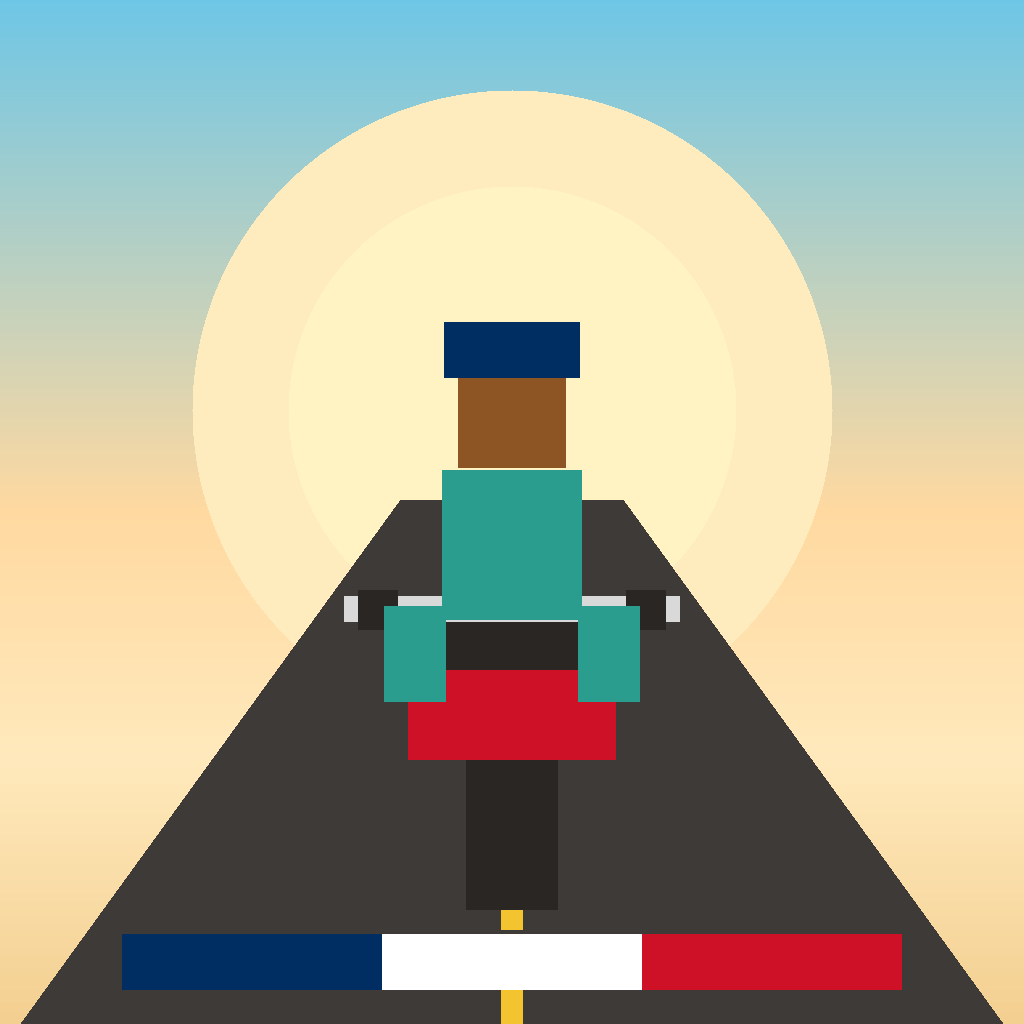
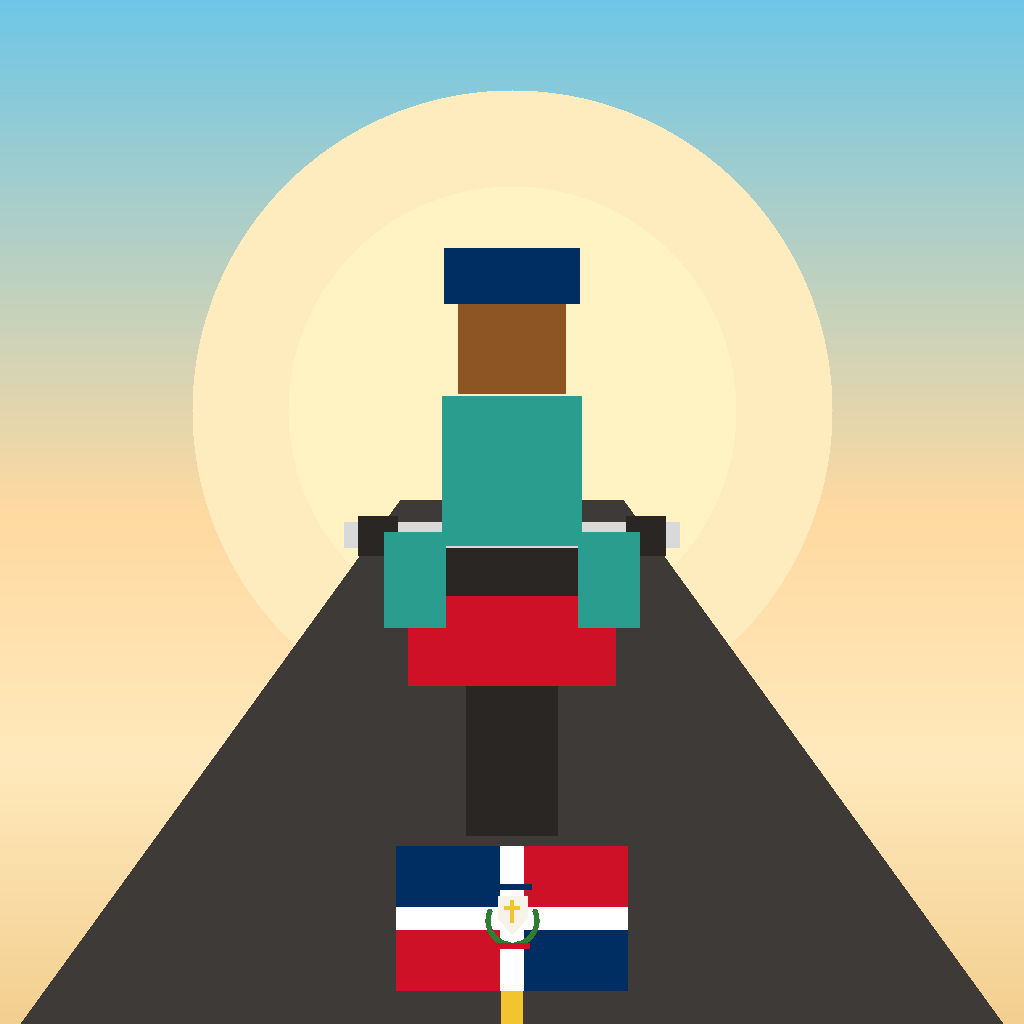
Diablo becomes Diache, and la bandera gets el escudo
Copy
- Every user-facing "¡Diablo!" is now "¡Diache!", the Dominican euphemism, so
  the game never says diablo. Two places: the combo ladder at 5 and the middle
  game-over title. Verified in the running game: the ladder fired ¡Diache! at
  combo 5 and the title rotation showed it. CLAUDE.md's copy spec updated to
  match so the canon and the code agree.

La bandera
- The logo, the share card and the app icon all drew the flag as three
  vertical bands, which reads as the French flag. All three now draw the real
  thing: white cross, blue at the upper hoist and lower fly, red at the upper
  fly and lower hoist, and el escudo in the middle.
- New src/flag.ts owns the canvas version, ui.ts owns the SVG twin for the
  DOM, and tools/make-icons.mjs draws it with new poly and arc primitives.
  One design, four surfaces.
- El escudo is simplified to what survives small: a laurel and palm wreath
  around a cream shield with the gold cross, the blue ribbon above and the red
  below. The real one (Bible, spears, lettering) turns to mush under ~200 px.
  Checked at 400, 150, 76, 44 and 24 px; it still reads as an emblem at 44.
- The roadside flags in the world already had the cross and quadrants right,
  so they just gained the escudo, and their quad now uses the flag's real 8:5
  ratio instead of 1.53.
- Share card layout: the flag is sized to the band between the wordmark and
  the ¡NUEVO RÉCORD! badge, and the badge moved down 15 px so it no longer
[…]

diff --git a/src/ui.ts b/src/ui.ts
@@ -4,6 +4,7 @@
 
 import { VEHICLES, type VehicleId } from './config';
 import { LADDER_STEPS, type RunResult } from './score';
+import { drawDominicanFlag } from './flag';
 
 type Lang = 'es' | 'en';
 const LANG_KEY = 'ecc.v1.lang';
@@ -35,7 +36,7 @@ const STRINGS = {
     shareAsk: '¿Me lo puedes ganar?',
     ariaSound: 'Sonido',
     ariaPause: 'Pausa',
-    gameOverTitles: ['¡Te dieron, loco!', '¡Diablo!', '¡Eso tuvo feo!'],
+    gameOverTitles: ['¡Te dieron, loco!', '¡Diache!', '¡Eso tuvo feo!'],
     cvPill: '¡EN CONTRA VÍA! ×2',
     trickPillBike: '¡CABALLITO! ×1.5',
     trickPillCar: '¡DERRAPE! ×1.5',
@@ -45,7 +46,7 @@ const STRINGS = {
     obelisco: '¡El Obelisco!',
     multUp: (n: number) => `¡MULTIPLICADOR ×${n}!`,
     nearMiss: ['¡Cerquita!', '¡Por un pelito!'],
-    ladder: ['¡Eso!', '¡Duro!', '¡Diablo!', "¡Tú ta' loco!", "¡ETE E' UN LOCO!", '¡LEYENDA DEL MALECÓN!'],
+    ladder: ['¡Eso!', '¡Duro!', '¡Diache!', "¡Tú ta' loco!", "¡ETE E' UN LOCO!", '¡LEYENDA DEL MALECÓN!'],
   },
   en: {
     subtitle: "Let's go, we're late!",
@@ -89,6 +90,29 @@ const VEHICLE_IDS: VehicleId[] = ['pasola', 'motor', 'civic'];
 
 const BANANA_SVG =
   '<svg viewBox="0 0 24 24" width="17" height="17" aria-hidden="true"><path d="M4 7 C5 15 13 20 20 15 C15 22 4 19 2 9 Z" fill="#f4c430" stroke="#7cb342" stroke-width="1.4"/></svg>';
+
+// La bandera, properly: the white cross quarters it, blue at the upper hoist
+// and lower fly, red at the upper fly and lower hoist, and el escudo in the
+// middle. Without the escudo it just reads as the French flag, which is the
+// one thing a Dominican flag must never do.
+const FLAG_SVG = `<svg class="flag-svg" viewBox="0 0 80 50" role="img" aria-label="Bandera dominicana">
+  <rect width="80" height="50" fill="#ffffff"/>
+  <rect x="0" y="0" width="36" height="21" fill="#002d62"/>
+  <rect x="44" y="0" width="36" height="21" fill="#ce1126"/>
+  <rect x="0" y="29" width="36" height="21" fill="#ce1126"/>
+  <rect x="44" y="29" width="36" height="21" fill="#002d62"/>
+  <g class="escudo">
+    <path d="M39.4 33.2c-5-1.1-7.6-5.2-7.2-10.6" fill="none" stroke="#2f7d32" stroke-width="1.9" stroke-linecap="round"/>
+    <path d="M40.6 33.2c5-1.1 7.6-5.2 7.2-10.6" fill="none" stroke="#2f7d32" stroke-width="1.9" stroke-linecap="round"/>
+    <path d="M33.6 25.4l-1.9 1.5M33 21.9l-2.1.9M33.4 18.6l-1.9-.2" stroke="#2f7d32" stroke-width="1.2" stroke-linecap="round"/>
+    <path d="M46.4 25.4l1.9 1.5M47 21.9l2.1.9M46.6 18.6l1.9-.2" stroke="#2f7d32" stroke-width="1.2" stroke-linecap="round"/>
+    <rect x="33.2" y="13.1" width="13.6" height="2.2" rx="1.1" fill="#002d62"/>
+    <rect x="33.8" y="33.4" width="12.4" height="2.2" rx="1.1" fill="#ce1126"/>
+    <path d="M35 16.9h10v8.1L40 30.4 35 25z" fill="#f7f3e8" stroke="#002d62" stroke-width="0.8"/>
+    <rect x="39.3" y="18.5" width="1.4" height="8" fill="#f4c430"/>
+    <rect x="37.1" y="20.8" width="5.8" height="1.4" fill="#f4c430"/>
+  </g>
+</svg>`;
 
 export interface UICallbacks {
   onStart(): void;
@@ -223,7 +247,7 @@ export class UI {
           <span class="logo-el">EL</span>
           <span class="logo-line">CORRE</span>
           <span class="logo-line">CORRE</span>
-          <div class="flagbar"><i class="fb-blue"></i><i class="fb-white"></i><i class="fb-red"></i></div>
+          <div class="flagbar">${FLAG_SVG}</div>
         </div>
         <div id="subtitle" class="subtitle"></div>
         <div id="vrow" class="vrow">${statBars()}</div>
@@ -725,17 +749,20 @@ export class UI {
     stroked('CORRE', 0, 344, 130, '#ffffff', '#002d62', 16);
     g.restore();
 
-    const barW = 420;
-    const seg = barW / 3;
-    const colors = ['#002d62', '#ffffff', '#ce1126'];
-    colors.forEach((col, i) => {
-      g.fillStyle = col;
-      g.fillRect(540 - barW / 2 + i * seg, 420, seg, 16);
-    });
+    // La bandera under the logo, escudo and all. The three-band version this
+    // replaced read as the French flag on a group-chat thumbnail. Sized to the
+    // band between the wordmark and the ¡NUEVO RÉCORD! badge.
+    const flagW = 120;
+    g.save();
+    g.shadowColor = 'rgba(0,45,98,0.35)';
+    g.shadowBlur = 0;
+    g.shadowOffsetY = 4;
+    drawDominicanFlag(g, 540 - flagW / 2, 396, flagW);
+    g.restore();
 
     if (r.isNewRecord) {
       g.save();
-      g.translate(540, 505);
+      g.translate(540, 520); // clears the flag above it
       g.rotate(-0.04);
       g.fillStyle = '#ce1126';
       g.beginPath();

diff --git a/src/flag.ts b/src/flag.ts
@@ -1,0 +1,89 @@
+// flag.ts: la bandera dominicana, drawn once and reused everywhere a canvas
+// needs it (the share card, the roadside flags in the world atlas).
+//
+// The whole point of this module is that the flag must never read as the
+// French one. That means all four things: the white cross, blue at the upper
+// hoist and lower fly, red at the upper fly and lower hoist, and el escudo in
+// the middle. The escudo is simplified to what survives at small sizes, a
+// wreath around a shield with the gold cross, the blue ribbon above and the
+// red below, because the real one (Bible, spears, lettering) turns to mush
+// below about 200 px.
+//
+// Authored in an 80 x 50 space, the flag's real 8:5 ratio, and scaled by
+// width. The SVG twin of this lives in ui.ts as FLAG_SVG; keep them in step.
+
+export const FLAG_ASPECT = 80 / 50;
+
+export function drawDominicanFlag(
+  g: CanvasRenderingContext2D,
+  x: number,
+  y: number,
+  w: number,
+): void {
+  const u = w / 80;
+  const S = (n: number): number => n * u;
+  const px = (n: number): number => x + n * u;
+  const py = (n: number): number => y + n * u;
+
+  g.save();
+  g.fillStyle = '#ffffff';
+  g.fillRect(x, y, w, S(50));
+  g.fillStyle = '#002d62';
+  g.fillRect(px(0), py(0), S(36), S(21));
+  g.fillRect(px(44), py(29), S(36), S(21));
+  g.fillStyle = '#ce1126';
+  g.fillRect(px(44), py(0), S(36), S(21));
+  g.fillRect(px(0), py(29), S(36), S(21));
+
+  // laurel on the left, palm on the right, hugging the shield
+  g.lineCap = 'round';
+  g.strokeStyle = '#2f7d32';
+  g.lineWidth = S(1.9);
+  g.beginPath();
+  g.moveTo(px(39.4), py(33.2));
+  g.bezierCurveTo(px(34.4), py(32.1), px(31.8), py(28), px(32.2), py(22.6));
+  g.stroke();
+  g.beginPath();
+  g.moveTo(px(40.6), py(33.2));
+  g.bezierCurveTo(px(45.6), py(32.1), px(48.2), py(28), px(47.8), py(22.6));
+  g.stroke();
+  g.lineWidth = S(1.2);
+  for (const [ax, ay, bx, by] of [
+    [33.6, 25.4, 31.7, 26.9],
+    [33.0, 21.9, 30.9, 22.8],
+    [33.4, 18.6, 31.5, 18.4],
+  ]) {
+    g.beginPath();
+    g.moveTo(px(ax), py(ay));
+    g.lineTo(px(bx), py(by));
+    g.stroke();
+    g.beginPath();
+    g.moveTo(px(80 - ax), py(ay));
+    g.lineTo(px(80 - bx), py(by));
+    g.stroke();
+  }
+
+  // DIOS PATRIA LIBERTAD above, REPUBLICA DOMINICANA below
+  g.fillStyle = '#002d62';
+  g.fillRect(px(33.2), py(13.1), S(13.6), S(2.2));
+  g.fillStyle = '#ce1126';
+  g.fillRect(px(33.8), py(33.4), S(12.4), S(2.2));
+
+  // el escudo
+  g.beginPath();
+  g.moveTo(px(35), py(16.9));
+  g.lineTo(px(45), py(16.9));
+  g.lineTo(px(45), py(25));
+  g.lineTo(px(40), py(30.4));
+  g.lineTo(px(35), py(25));
+  g.closePath();
+  g.fillStyle = '#f7f3e8';
+  g.fill();
+  g.strokeStyle = '#002d62';
+  g.lineWidth = S(0.8);
+  g.stroke();
+  g.fillStyle = '#f4c430';
+  g.fillRect(px(39.3), py(18.5), S(1.4), S(8));
+  g.fillRect(px(37.1), py(20.8), S(5.8), S(1.4));
+  g.restore();
+}

diff --git a/src/world.ts b/src/world.ts
@@ -18,6 +18,7 @@
 import * as THREE from 'three';
 import { mergeGeometries } from 'three/addons/utils/BufferGeometryUtils.js';
 import { CONFIG, PALETTE, ROAD } from './config';
+import { drawDominicanFlag, FLAG_ASPECT } from './flag';
 
 const CHUNK_LEN = 30;
 const CHUNK_COUNT = 7;
@@ -268,20 +269,12 @@ function buildAtlas(): Atlas {
   g.fillText('Av. George Washington', 158, 333);
   put('street', 8, 310, 300, 44);
 
-  // La bandera: white cross, blue and red quadrants
+  // La bandera, escudo and all (see flag.ts for why the escudo is not optional)
   const fx = 340;
   const fy = 8;
-  const fw = 150;
-  const fh = 100;
-  g.fillStyle = hex(PALETTE.flagBlue);
-  g.fillRect(fx, fy, fw / 2, fh / 2);
-  g.fillRect(fx + fw / 2, fy + fh / 2, fw / 2, fh / 2);
-  g.fillStyle = hex(PALETTE.flagRed);
-  g.fillRect(fx + fw / 2, fy, fw / 2, fh / 2);
-  g.fillRect(fx, fy + fh / 2, fw / 2, fh / 2);
-  g.fillStyle = '#ffffff';
-  g.fillRect(fx, fy + fh / 2 - 9, fw, 18);
-  g.fillRect(fx + fw / 2 - 9, fy, 18, fh);
+  const fw = 160;
+  const fh = fw / FLAG_ASPECT;
+  drawDominicanFlag(g, fx, fy, fw);
   put('flag', fx, fy, fw, fh);
 
   g.fillStyle = '#ffffff';
@@ -457,7 +450,7 @@ function makeFlagpole(rects: Record<string, AtlasRect>): THREE.BufferGeometry {
   pole.translate(0, 2.5, 0);
   const ball = uvFill(new THREE.SphereGeometry(0.09, 6, 5), rects.white);
   ball.translate(0, 5.05, 0);
-  const flag = quadUV(1.45, 0.95, rects.flag);
+  const flag = quadUV(1.52, 0.95, rects.flag); // 8:5, la bandera's real ratio
   flag.translate(0.78, 4.45, 0);
   flag.rotateY(0.5);
   return mergeGeometries([pole, ball, flag])!;

diff --git a/src/style.css b/src/style.css
@@ -133,27 +133,15 @@ body {
 
 .flagbar {
   display: flex;
-  width: 76%;
-  height: 10px;
+  justify-content: center;
   margin-top: 12px;
-  border-radius: 6px;
-  overflow: hidden;
 }
 
-.flagbar i {
-  flex: 1;
-}
-
-.fb-blue {
-  background: var(--blue);
-}
-
-.fb-white {
-  background: var(--white);
-}
-
-.fb-red {
-  background: var(--red);
+.flag-svg {
+  width: clamp(52px, 9vh, 76px);
+  height: auto;
+  border-radius: 4px;
+  box-shadow: 0 3px 0 rgba(0, 45, 98, 0.35);
 }
 
 .subtitle {
@@ -608,8 +596,10 @@ body {
     font-size: 40px;
   }
   .flagbar {
-    height: 6px;
     margin-top: 5px;
+  }
+  .flag-svg {
+    width: 44px;
   }
   .subtitle {
     margin-top: 9px;

diff --git a/CLAUDE.md b/CLAUDE.md
@@ -109,7 +109,7 @@ Route variety: the world transitions every ~1.2km between themed *tramos*, each 
 ## Scoring & the slang ladder
 - Distance +1/m · plátano +10 · near-miss +25 × combo · airtime +15/s · wheelie +5/s — **everything ×2 en contra vía.**
 - Floating popups at event locations (world→screen projected), eased, staggered so they never stack unreadably.
-- **Combo ladder** (popup text at these counts, size/energy escalate): 2 **"¡Eso!"** · 3 **"¡Duro!"** · 5 **"¡Diablo!"** · 7 **"¡Tú ta' loco!"** · 10 **"¡ETE E' UN LOCO!"** · 15 **"¡LEYENDA DEL MALECÓN!"**
+- **Combo ladder** (popup text at these counts, size/energy escalate): 2 **"¡Eso!"** · 3 **"¡Duro!"** · 5 **"¡Diache!"** · 7 **"¡Tú ta' loco!"** · 10 **"¡ETE E' UN LOCO!"** · 15 **"¡LEYENDA DEL MALECÓN!"**
 - Game over: Puntos (big), Récord, Distancia, Plátanos. All-time + per-vehicle records persist in `localStorage`.
 - New record: burst through La Cinta del Récord → flag-color confetti + **"¡NUEVO RÉCORD!"**
 ## Difficulty & spawning
@@ -152,14 +152,14 @@ export const CONFIG = {
 - **SFX:** plátano = 3-note marimba run up · near-miss whoosh · scrape grind · crash = noise burst + falling tone · UI click · bendición bell chord.
 - Mute toggle persisted. AudioContext resumes on first tap.
 ## UI copy — exact strings
-- **Title:** logo **EL CORRE CORRE** (stacked, chunky, slight italic lean, flag-color accent bar) · subtitle *"¡Dale, que vamo' tarde!"* · **"TOCA PA' EMPEZAR"** (desktop: "DALE A ESPACIO") · Récord · mute.
+- **Title:** logo **EL CORRE CORRE** (stacked, chunky, slight italic lean, la bandera dominicana under it: white cross, blue and red quadrants, **el escudo in the middle**; a three-band strip reads as the French flag and is never acceptable) · subtitle *"¡Dale, que vamo' tarde!"* · **"TOCA PA' EMPEZAR"** (desktop: "DALE A ESPACIO") · Récord · mute.
 - **Vehicle cards** (all unlocked, stat bars Velocidad / Manejo / Aguante):
   - **LA PASOLA** — hitbox −25%, best handling, speed cap 36. *"Chiquita pero cumplidora."*
   - **EL MOTOR** (default) — balanced. *"El clásico del barrio."*
   - **EL CIVIC TUNEAO** — +15% speed & score, hitbox +40%, heavier steering, underglow. *"Que se oiga."*
 - **HUD:** score top-center (big) · combo counter with slang tier · plátano count · **"¡EN CONTRA VÍA! ×2"** pulsing when active · pause.
 - **Pause:** "PAUSA" — Seguir / Menú.
-- **Game over:** rotate **"¡Te dieron, loco!"** / **"¡Diablo!"** / **"¡Eso tuvo feo!"** · breakdown · big **OTRA VEZ** · smaller **MENÚ** · Compartir (share card).
+- **Game over:** rotate **"¡Te dieron, loco!"** / **"¡Diache!"** / **"¡Eso tuvo feo!"** · breakdown · big **OTRA VEZ** · smaller **MENÚ** · Compartir (share card).
 - **Share card text:** "EL CORRE CORRE" + score + "en {vehicle} por el Malecón" + subtle "¿Me lo puedes ganar?"
 ## Dominicanidad backlog (sprinkle wherever fitting)
 Colmado name rotation: LA FE · EL PROGRESO · DOÑA TATICA · Banca de lotería storefront · "SE VENDE EMPANADA" sign · cobrador leaning out the stopped guagua ("¡SÚBETE!" speech bubble) · chimi/fritura cart with smoke wisps · plastic chairs on sidewalks · Av. George Washington street sign · DR license plates · chichigua (kite) over the seawall · motoconcho with umbrella rig · domino slam animation at the table · Presidente-green awning (no branding) · Obelisco distance banner.
